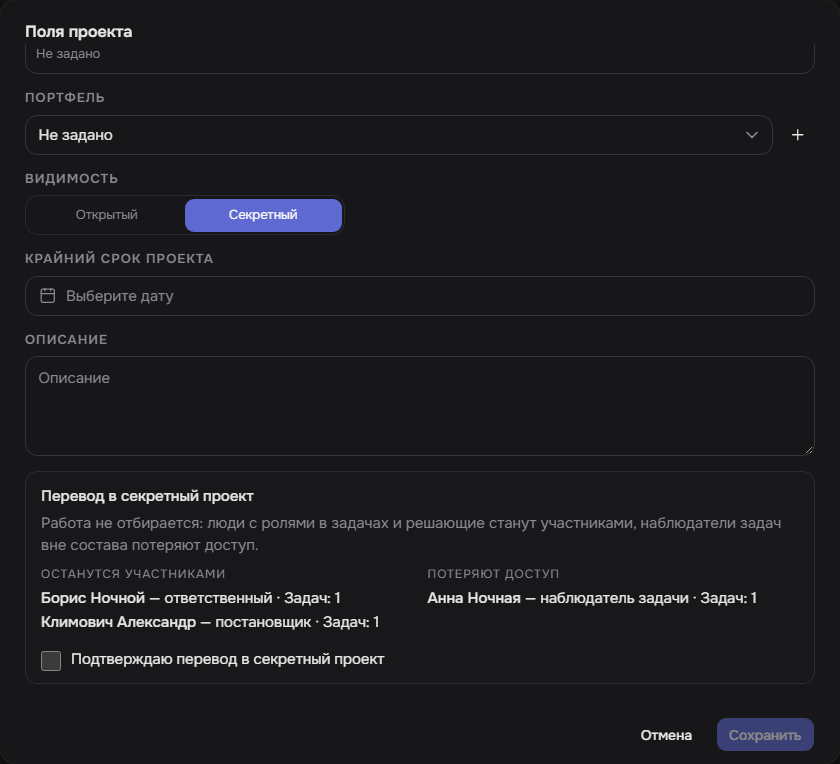
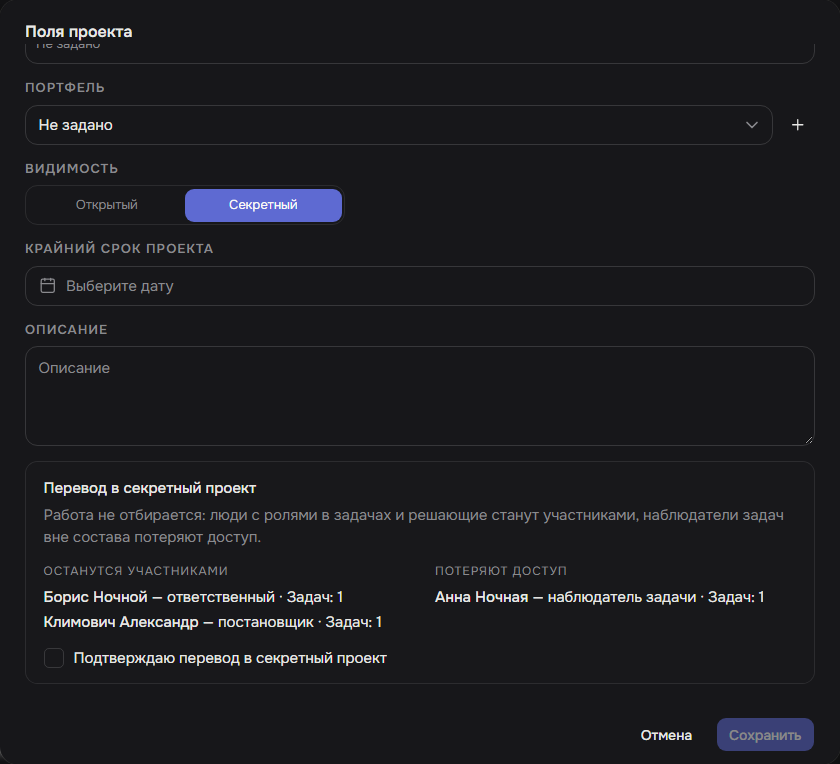
fix(web): канонический чекбокс в предпросмотре секретного перехода (#541)

diff --git a/apps/web/src/features/projects/components/project-secret-preview.tsx b/apps/web/src/features/projects/components/project-secret-preview.tsx
@@ -1,5 +1,7 @@
+import { useId } from 'react';
 import type { ProjectSecretPreview } from '@nodus/contracts';
 import { ui } from '@nodus/contracts';
+import { Checkbox } from '@nodus/ui/components/checkbox';
 
 /**
  * Предпросмотр перевода проекта в секретный (#541, решение владельца п.4):
@@ -22,6 +24,7 @@ export function ProjectSecretPreviewBlock({
   onConfirmChange: (confirmed: boolean) => void;
 }) {
   const strings = ui.projects.secretPreview;
+  const confirmId = useId();
   if (loading) return <p className="text-sm text-muted-foreground">{strings.loading}</p>;
   if (error) {
     return (
@@ -33,20 +36,20 @@ export function ProjectSecretPreviewBlock({
   if (!preview) return null;
   const empty = preview.willBecomeMembers.length === 0 && preview.willLoseAccess.length === 0;
   return (
-    <section className="rounded-lg border border-border bg-accent/30 px-3 py-2.5 text-sm">
+    <section className="rounded-lg border border-border bg-accent/30 px-3.5 py-3 text-sm">
       <p className="font-medium">{strings.title}</p>
       <p className="mt-1 text-muted-foreground">{strings.hint}</p>
       {empty ? (
         <p className="mt-2 text-muted-foreground">{strings.empty}</p>
       ) : (
-        <div className="mt-2 grid gap-3 sm:grid-cols-2">
+        <div className="mt-3 grid items-start gap-x-6 gap-y-3 sm:grid-cols-2">
           <div>
             <p className="text-label-sm tracking-[0.08em] text-muted-foreground uppercase">
               {strings.willBecome}
             </p>
-            <ul className="mt-1 space-y-0.5">
+            <ul className="mt-1.5 space-y-1">
               {preview.willBecomeMembers.map((item) => (
-                <li key={item.user.id}>
+                <li key={item.user.id} className="leading-snug">
                   <span className="font-medium">{item.user.displayName}</span>
                   {' — '}
                   {item.roles.map((role) => strings.roles[role]).join(', ')}
@@ -60,9 +63,9 @@ export function ProjectSecretPreviewBlock({
             <p className="text-label-sm tracking-[0.08em] text-muted-foreground uppercase">
               {strings.willLose}
             </p>
-            <ul className="mt-1 space-y-0.5">
+            <ul className="mt-1.5 space-y-1">
               {preview.willLoseAccess.map((item) => (
-                <li key={`${item.user.id}:${item.kind}`}>
+                <li key={`${item.user.id}:${item.kind}`} className="leading-snug">
                   <span className="font-medium">{item.user.displayName}</span>
                   {' — '}
                   {strings.loseKind[item.kind]}
@@ -75,15 +78,16 @@ export function ProjectSecretPreviewBlock({
           </div>
         </div>
       )}
-      <label className="mt-3 flex items-start gap-2">
-        <input
-          type="checkbox"
+      <div className="mt-3 flex items-center gap-2">
+        <Checkbox
+          id={confirmId}
           checked={confirmed}
-          onChange={(event) => onConfirmChange(event.target.checked)}
-          className="mt-0.5 size-4 accent-port"
+          onCheckedChange={(value) => onConfirmChange(value === true)}
         />
-        <span>{strings.confirm}</span>
-      </label>
+        <label htmlFor={confirmId} className="cursor-pointer select-none leading-snug">
+          {strings.confirm}
+        </label>
+      </div>
     </section>
   );
 }

diff --git a/apps/api/test/integration/projects.integration.test.ts b/apps/api/test/integration/projects.integration.test.ts
@@ -218,15 +218,30 @@ describe.skipIf(!process.env.DATABASE_URL)('projects: трассы Т1/Т2/Т2b 
         key: `t1-flip-join-${fx.runId}`,
       });
       expect([200, 201]).toContain(joined.status);
+      // Приглашённый наблюдатель проекта + роль соисполнителя в задаче (#714):
+      // после переключения он обязан стать участником, а не попасть в «потеряют».
+      const invited = await fx.api(alice, 'POST', `/projects/${open.id}/members`, {
+        body: { userId: bob.id, kind: 'observer' },
+        key: `t1-flip-invited-${fx.runId}`,
+      });
+      expect([200, 201]).toContain(invited.status);
+      const coexecutor = await fx.api(alice, 'POST', `/tasks/${task.id}/participants`, {
+        body: { userId: bob.id, role: 'coexecutor' },
+        key: `t1-flip-coexec-${fx.runId}`,
+      });
+      expect(coexecutor.status).toBe(201);
 
       // Предпросмотр: кто останется участником, кто потеряет доступ.
       const previewRes = await fx.api(alice, 'GET', `/projects/${open.id}/secret-preview`);
       expect(previewRes.status).toBe(200);
       const preview = projectSecretPreviewSchema.parse(await previewRes.json());
       expect(preview.willBecomeMembers.map((item) => item.user.id)).toContain(carol.id);
+      expect(preview.willBecomeMembers.map((item) => item.user.id)).toContain(bob.id);
       expect(preview.willLoseAccess.map((item) => item.user.id)).toContain(dave.id);
-      // Носитель роли не попадает в «потеряют доступ», даже если сам вступил.
+      // Носитель роли не попадает в «потеряют доступ», даже если сам вступил
+      // или приглашён наблюдателем проекта (#714).
       expect(preview.willLoseAccess.map((item) => item.user.id)).not.toContain(carol.id);
+      expect(preview.willLoseAccess.map((item) => item.user.id)).not.toContain(bob.id);
 
       const flipped = await fx.api(alice, 'PATCH', `/projects/${open.id}`, {
         body: { visibility: 'secret' },
@@ -237,6 +252,9 @@ describe.skipIf(!process.env.DATABASE_URL)('projects: трассы Т1/Т2/Т2b 
       // Ответственный видит задачу и проект: работа не отобрана.
       expect((await fx.api(carol, 'GET', `/tasks/${task.id}`)).status).toBe(200);
       expect((await fx.api(carol, 'GET', `/projects/${open.id}`)).status).toBe(200);
+      // Приглашённый наблюдатель с ролью соисполнителя тоже сохранил доступ.
+      expect((await fx.api(bob, 'GET', `/tasks/${task.id}`)).status).toBe(200);
+      expect((await fx.api(bob, 'GET', `/projects/${open.id}`)).status).toBe(200);
       // Наблюдатель вне состава доступ потерял (кэш видимости сбрасывается
       // событием outbox — ждём доставку, как проекцию участия).
       await waitFor(async () => {
